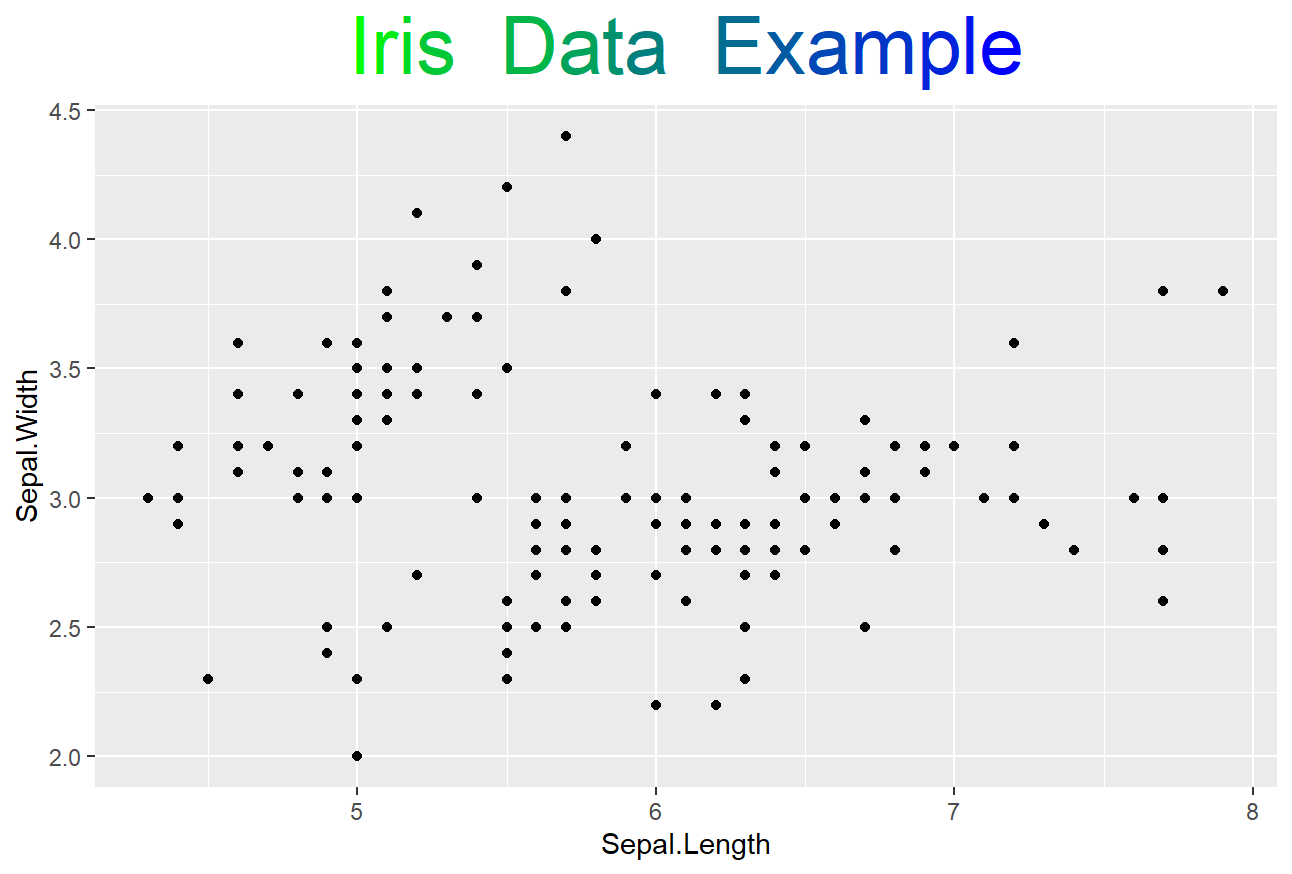
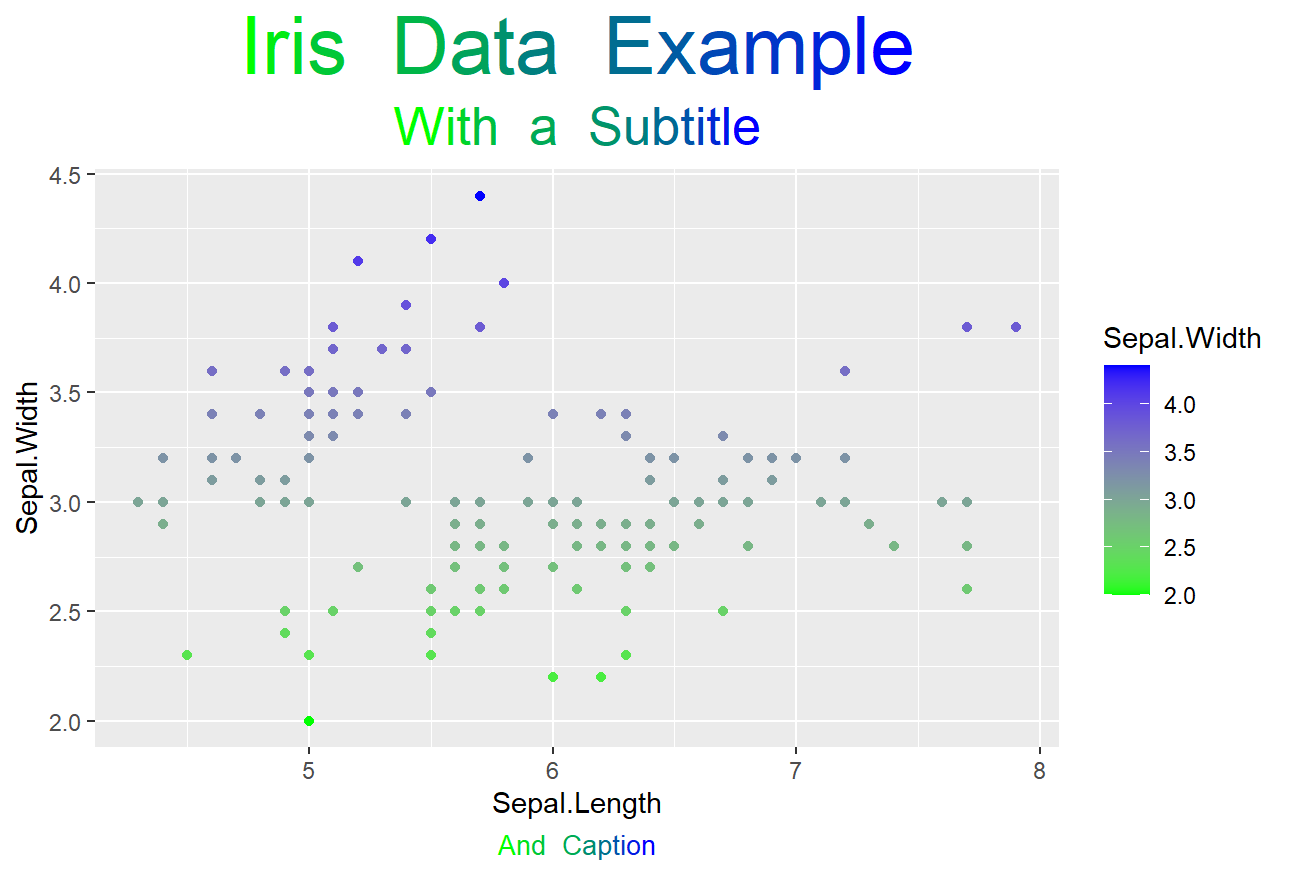
more readme.md examples

diff --git a/README.md b/README.md
@@ -12,7 +12,7 @@ devtools::install_github("samiaab1990/gradienttext")
 
 # Examples
 
-## Applying gradient colors to titles, subtitles and captions. 
+## Applying gradient colors to titles, subtitles and captions  
 
 ```
 library(gradienttext)
@@ -20,15 +20,41 @@ library(ggplot2)
 library(ggtext)
 
 
-ggplot(data = iris, aes(x = Sepal.Length, y= Sepal.Width))+
+ggplot(data = iris, aes(x = Sepal.Length, y= Sepal.Width, color=Sepal.Width))+
 geom_point()+
-labs(title = make_gradient(label = "Iris Data Example", colors=c("green","blue")))+
+scale_color_gradient(low="green",high="blue")+
+labs(title = make_gradient(label = "Iris Data Example", colors=c("green","blue")),
+     subtitle = make_gradient(label="With a Subtitle", colors=c("green","blue")),
+     caption = make_gradient(label="And Caption", colors=c("green","blue")))+
 theme(
-plot.title = element_markdown(size=30, hjust=.5)
+plot.title = element_markdown(size=30, hjust=.5),
+plot.subtitle = element_markdown(size=20, hjust=.5),
+plot.caption = element_markdown(size=10,hjust=.5)
 )
 ```
 <img src='./man/figures/iris_data_title_example.png'>
 
+## Applying gradient colors to axis labels
+
+```
+library(gradienttext)
+library(ggplot2)
+library(ggtext)
+
+
+ggplot(data = iris, aes(x = Sepal.Length, y= Sepal.Width, color=Sepal.Width))+
+geom_point()+
+scale_color_gradient(low="green",high="blue")+
+labs(title = "Iris Data Example")+
+xlab(make_gradient(label="Sepal Length", colors=c("green","blue")))+
+ylab(make_gradient(label="Sepal Width", colors=c("green","blue")))+
+theme(
+plot.title = element_text(size=30, hjust=.5),
+axis.title.x = element_markdown(size=10),
+axis.title.y = element_markdown(size=10)
+)
+```
+<img src='./man/figures/iris_data_xy_labs.png'>
 
 ## Applying gradient colors to labels with aesthetic mapping
 
